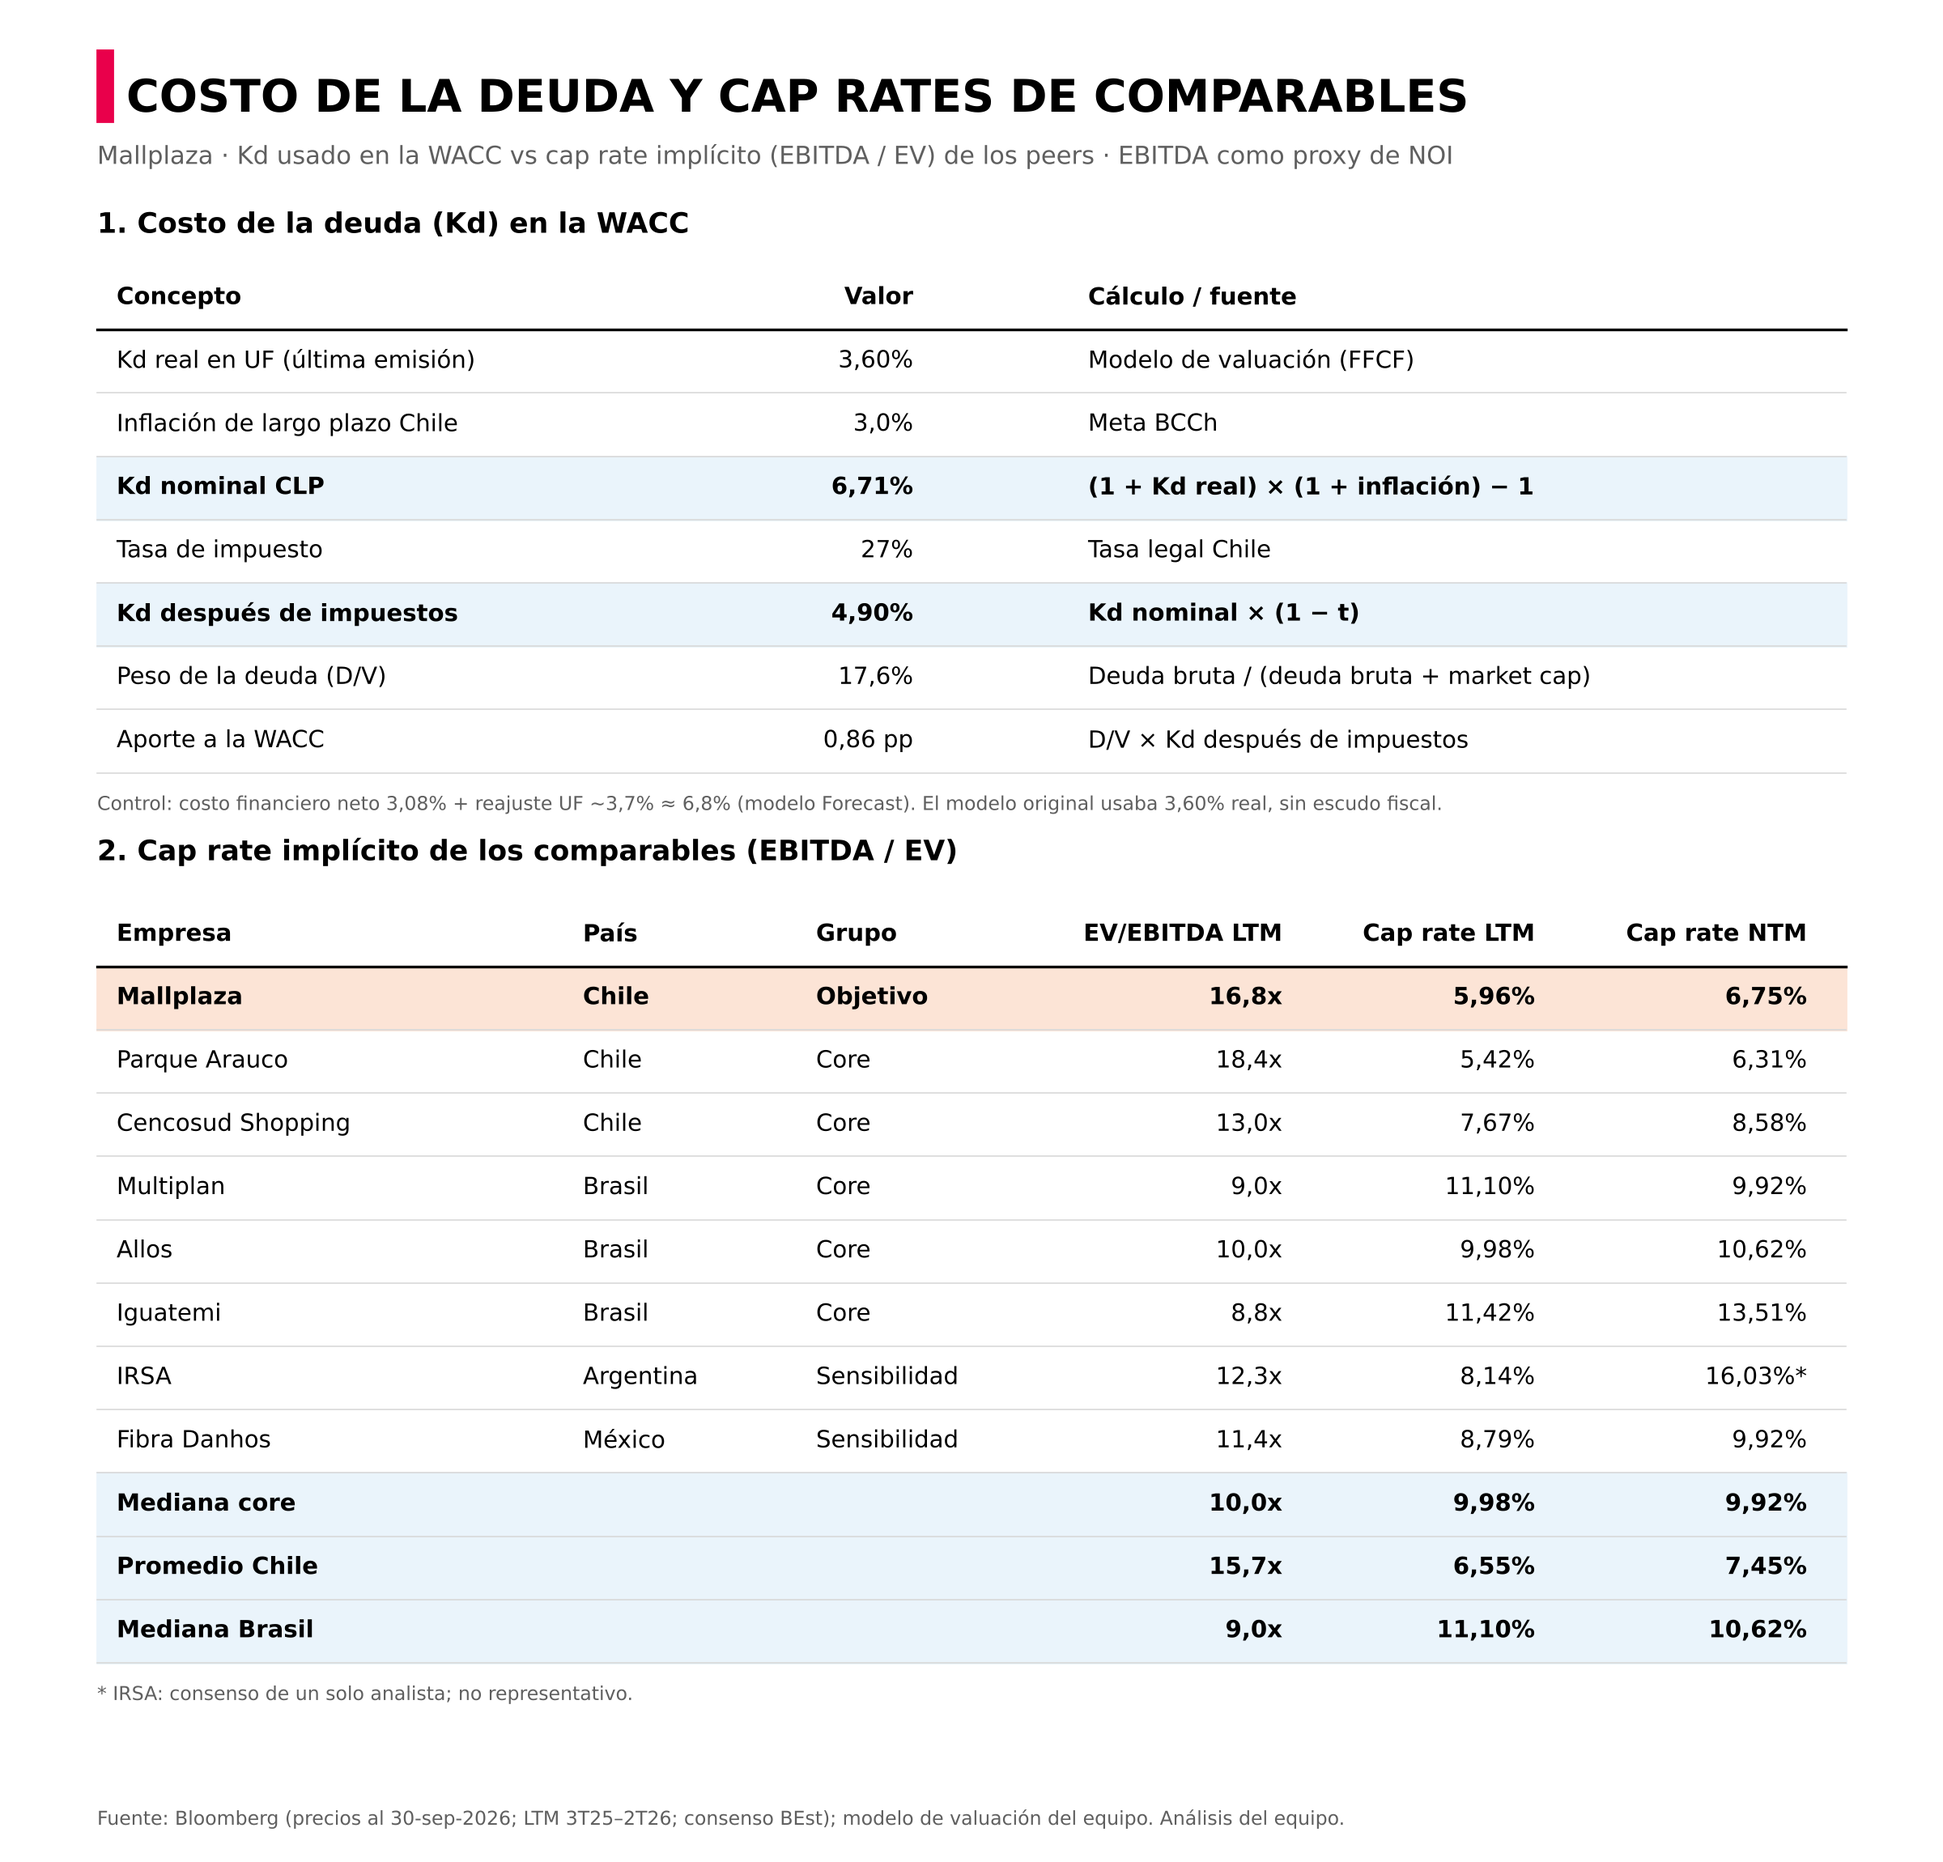
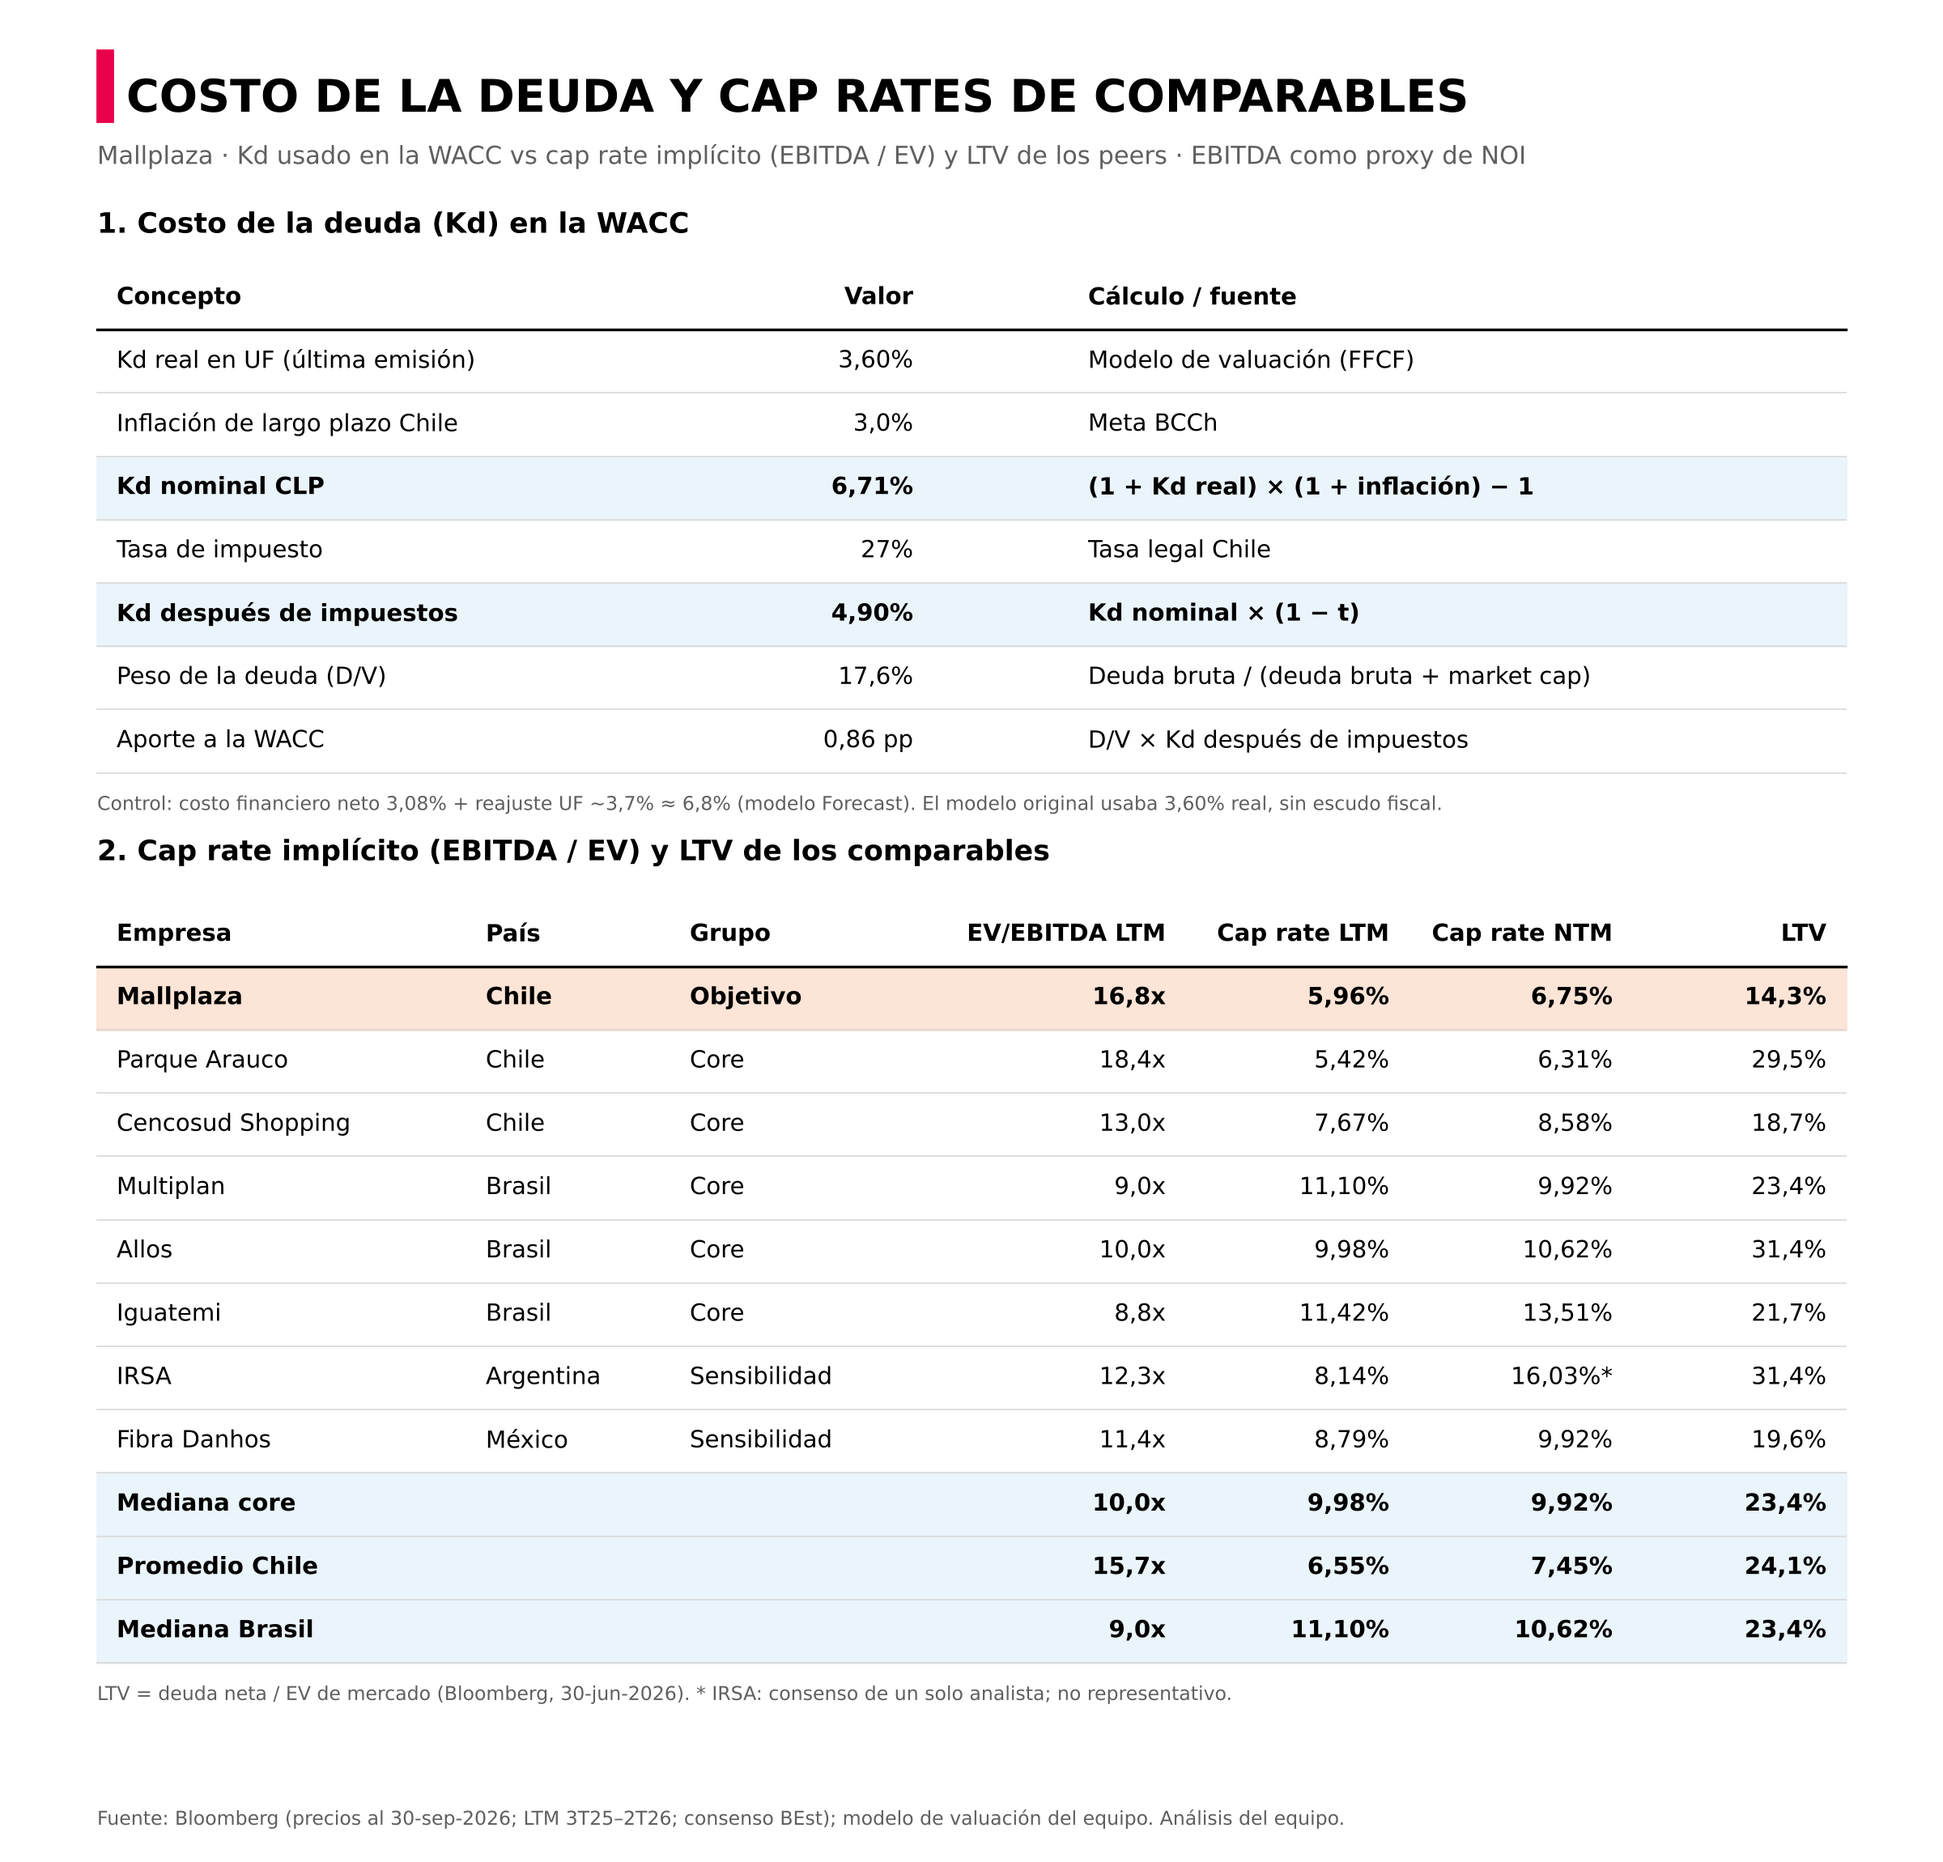
Add peer LTV (net debt / market EV) to the cost of debt and cap rate table
Claude-Session: https://claude.ai/code/session_0188QZHBkA8n5QL7BtmFakQg

diff --git a/graficos/tabla_kd_caprates.py b/graficos/tabla_kd_caprates.py
@@ -33,7 +33,8 @@ def leer_peers(ruta):
     for r in range(7, 15):
         ev = lt.cell(r, 8).value
         peers.append((lt.cell(r, 1).value, lt.cell(r, 3).value, lt.cell(r, 2).value,
-                      ev / lt.cell(r, 10).value, lt.cell(r, 10).value / ev, nt.cell(r, 10).value / ev))
+                      ev / lt.cell(r, 10).value, lt.cell(r, 10).value / ev, nt.cell(r, 10).value / ev,
+                      lt.cell(r, 6).value / ev))  # LTV = deuda neta / EV de mercado
     assert all(p[3] for p in peers), "recalcular el libro antes de graficar"
     return peers
 
@@ -70,7 +71,7 @@ def graficar(ruta, salida):
     fig.text(0.065, 0.94, "COSTO DE LA DEUDA Y CAP RATES DE COMPARABLES", fontsize=20,
              fontweight="bold", color=NEGRO)
     fig.text(0.05, 0.912, "Mallplaza · Kd usado en la WACC vs cap rate implícito (EBITDA / EV) "
-             "de los peers · EBITDA como proxy de NOI", fontsize=11, color=TINTA_SECUNDARIA)
+             "y LTV de los peers · EBITDA como proxy de NOI", fontsize=11, color=TINTA_SECUNDARIA)
 
     fig.text(0.05, 0.875, "1. Costo de la deuda (Kd) en la WACC", fontsize=12.5, fontweight="bold",
              color=NEGRO)
@@ -89,13 +90,13 @@ def graficar(ruta, salida):
              "Forecast). El modelo original usaba 3,60% real, sin escudo fiscal.", fontsize=8.5,
              color=TINTA_SECUNDARIA)
 
-    fig.text(0.05, y - 0.03, "2. Cap rate implícito de los comparables (EBITDA / EV)", fontsize=12.5,
+    fig.text(0.05, y - 0.03, "2. Cap rate implícito (EBITDA / EV) y LTV de los comparables", fontsize=12.5,
              fontweight="bold", color=NEGRO)
     filas_cr = []
-    for nombre, pais, grupo, evx, cl, cn in peers:
+    for nombre, pais, grupo, evx, cl, cn, ltv in peers:
         g = "Objetivo" if grupo == "Target" else grupo
         nota = "*" if nombre == "IRSA" else ""
-        filas_cr.append(((nombre, pais, g, mult(evx), pct(cl), pct(cn) + nota),
+        filas_cr.append(((nombre, pais, g, mult(evx), pct(cl), pct(cn) + nota, pct(ltv, 1)),
                          "target" if grupo == "Target" else None))
     core = [p for p in peers if p[2] == "Core"]
     chile = [p for p in core if p[1] == "Chile"]
@@ -103,11 +104,12 @@ def graficar(ruta, salida):
     for nombre, grupo, f in (("Mediana core", core, st.median), ("Promedio Chile", chile, st.mean),
                              ("Mediana Brasil", brasil, st.median)):
         filas_cr.append(((nombre, "", "", mult(f(p[3] for p in grupo)), pct(f(p[4] for p in grupo)),
-                          pct(f(p[5] for p in grupo))), "dest"))
-    y = tabla(fig, y - 0.07, [0.06, 0.30, 0.42, 0.66, 0.79, 0.93],
-              ["Empresa", "País", "Grupo", "EV/EBITDA LTM", "Cap rate LTM", "Cap rate NTM"],
-              filas_cr, 0.034, ["left", "left", "left", "right", "right", "right"])
-    fig.text(0.05, y - 0.003, "* IRSA: consenso de un solo analista; no representativo.", fontsize=8.5,
+                          pct(f(p[5] for p in grupo)), pct(f(p[6] for p in grupo), 1)), "dest"))
+    y = tabla(fig, y - 0.07, [0.06, 0.25, 0.355, 0.60, 0.715, 0.83, 0.94],
+              ["Empresa", "País", "Grupo", "EV/EBITDA LTM", "Cap rate LTM", "Cap rate NTM", "LTV"],
+              filas_cr, 0.034, ["left", "left", "left", "right", "right", "right", "right"])
+    fig.text(0.05, y - 0.003, "LTV = deuda neta / EV de mercado (Bloomberg, 30-jun-2026). "
+             "* IRSA: consenso de un solo analista; no representativo.", fontsize=8.5,
              color=TINTA_SECUNDARIA)
     fig.text(0.05, 0.02, "Fuente: Bloomberg (precios al 30-sep-2026; LTM 3T25–2T26; consenso BEst); "
              "modelo de valuación del equipo. Análisis del equipo.", fontsize=8.5, color=TINTA_SECUNDARIA)
